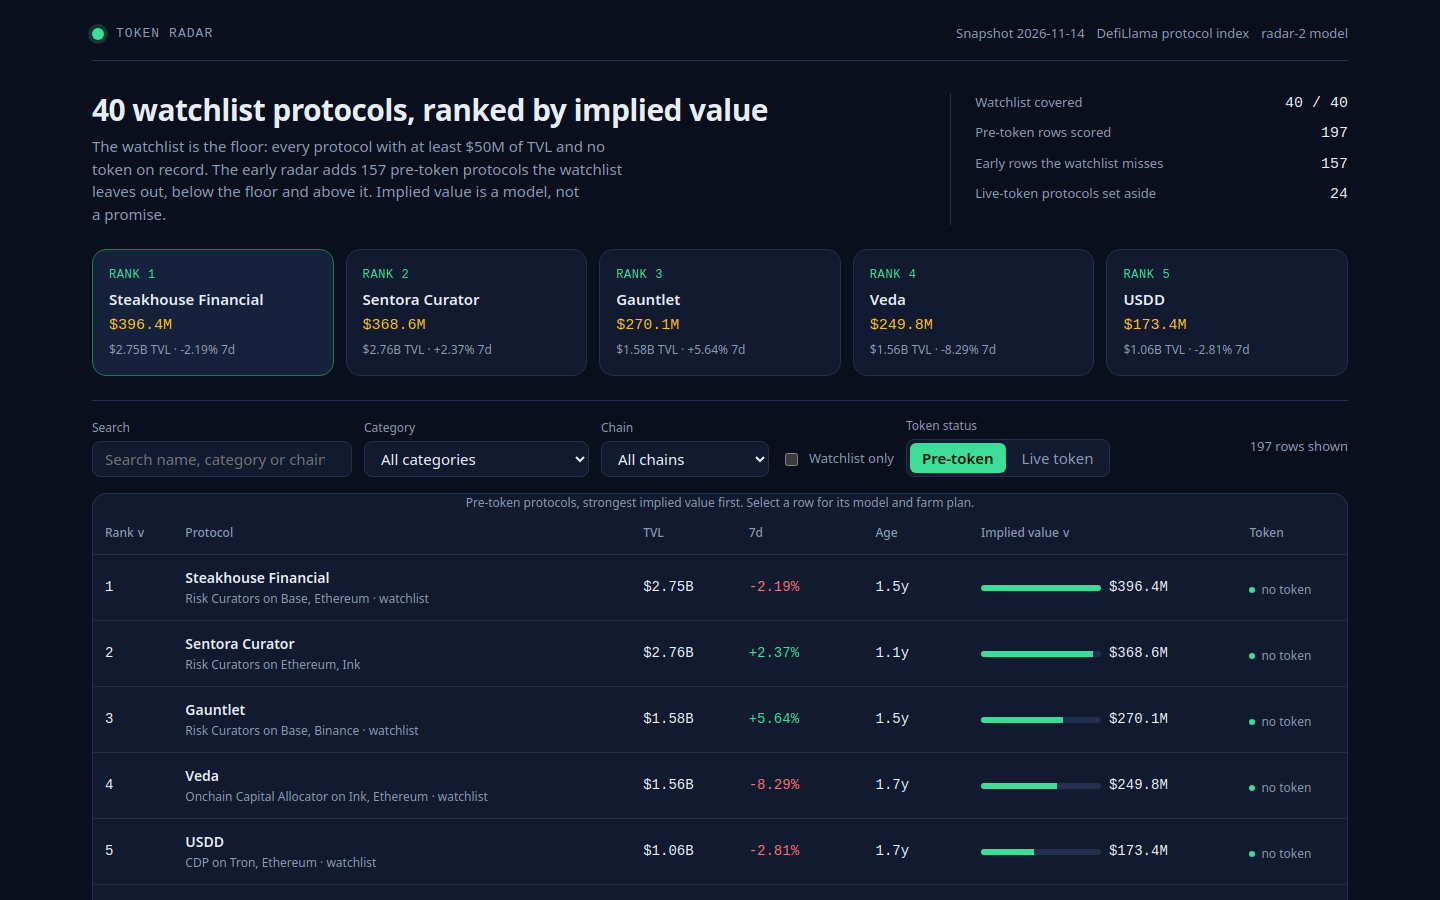
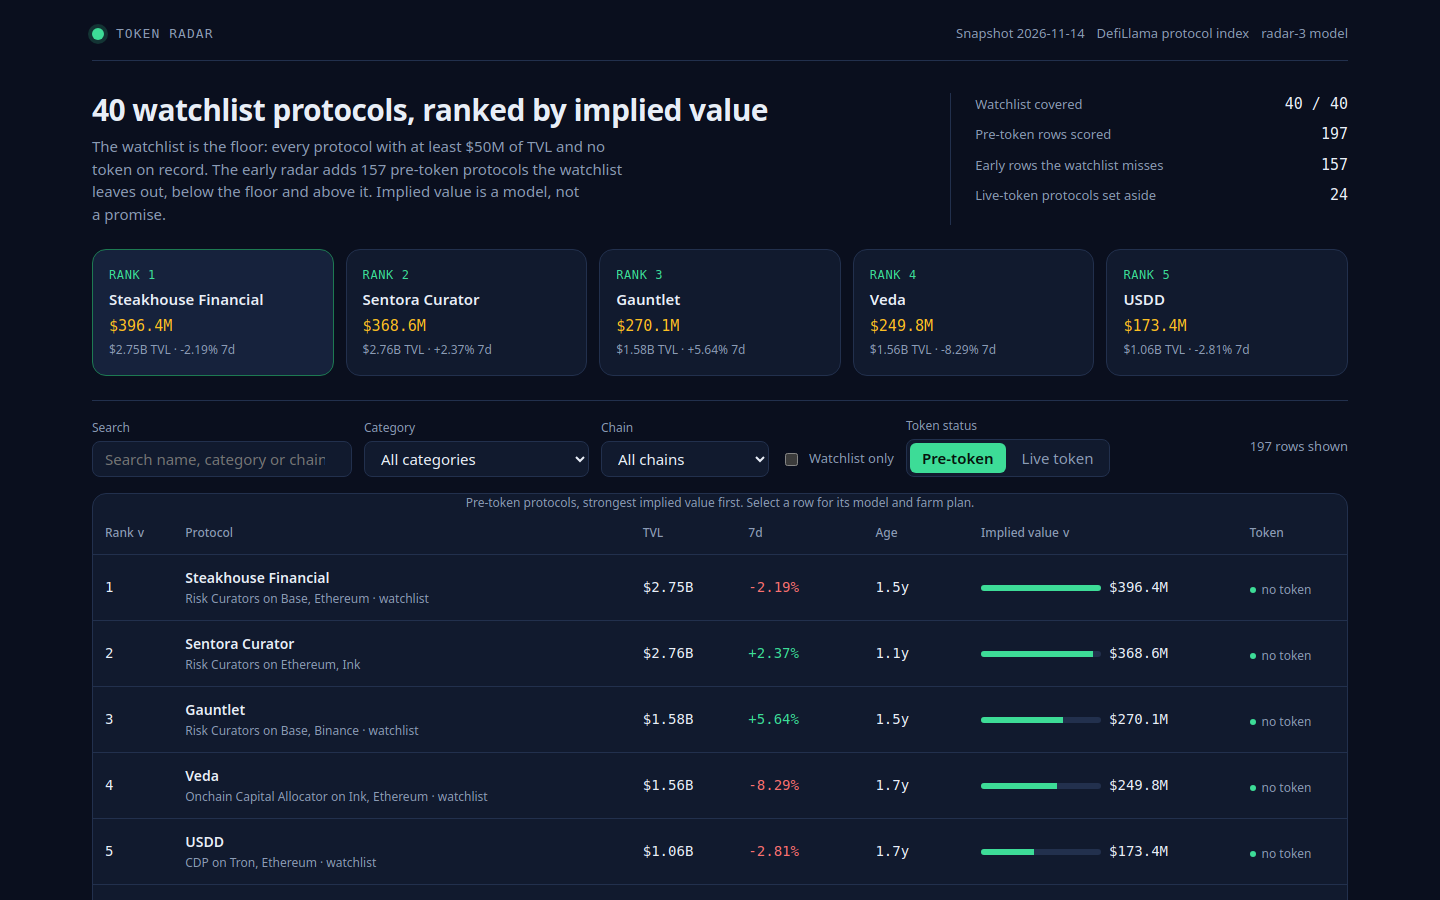
token-radar-01 v2: radar-3 model with sensitivity range + driver, exact-age detail, risk/skip farm plan, new screenshots

diff --git a/lib/model.ts b/lib/model.ts
@@ -1,4 +1,4 @@
-// Token Radar's value model (radar-2): one sealed snapshot in, one ranked board out.
+// Token Radar's value model (radar-3): one sealed snapshot in, one ranked board out.
 //
 // The board ranks every protocol on the snapshot's watchlist — the floor, never the ceiling —
 // and adds the early radar: pre-token protocols the watchlist leaves out, below the floor and
@@ -22,7 +22,18 @@
 //   reach        = 1 + min(chains - 1, 4) x 0.05        (1.0..1.2: more chains, broader surface)
 //   implied      = max(1, round(tvl_usd x 0.25 x size x growthMult x maturity x reach))
 //
-// No protocol name is ever special-cased: the same function scores every row.
+// radar-3 keeps that formula and its constants — a sensitivity test over the plausible weight
+// range moves the top 20 by at most a few places and never changes the top three, so the
+// baseline is the robust middle, not a cherry-picked one — and makes the model honest about
+// what it does not know. A seven-day growth the snapshot does not report is treated as 0%:
+// no bonus, no penalty, because unreported is not zero. An unknown age uses 365 days for
+// maturity, a conservative default below the board's median age of 421 days, and the dashboard
+// says so. Every row now carries its implied range, the lowest and highest value across
+// sensitivity runs that shift the growth weight, the unknown-age default and the size exponent,
+// and its main driver, the multiplier furthest from 1.0. Multipliers are stored to six
+// decimals, so a reader who multiplies the shown figures lands within a few hundred dollars
+// of the implied value. No protocol name is ever special-cased: the same function scores
+// every row.
 
 /** One protocol entry from the sealed snapshot: exactly its ten fields. */
 export interface SnapshotProtocol {
@@ -83,7 +94,7 @@ export const MODEL: ModelConstants = {
 };
 
 /** The model's version label: the dashboard names it. */
-export const MODEL_VERSION = 'radar-2';
+export const MODEL_VERSION = 'radar-3';
 
 /** How many live-token protocols the Live token view carries, by market cap. */
 export const LIVE_ROWS = 24;
@@ -111,6 +122,9 @@ export interface BoardRow {
   token_status: 'pre-token';
   age_days: number | null;
   implied_value_usd: number;
+  implied_range: { low: number; high: number };
+  driver: string;
+  driver_multiplier: number;
   model: {
     base_multiple: number;
     size_multiplier: number;
@@ -136,6 +150,10 @@ export interface RadarRow {
   listed_at: string | null;
   age_days: number | null;
   implied_value_usd: number;
+  implied_low: number;
+  implied_high: number;
+  driver: string;
+  driver_multiplier: number;
   size_multiplier: number;
   growth_multiplier: number;
   maturity_multiplier: number;
@@ -206,8 +224,8 @@ export function ageDays(asOf: string, listedAt: string | null): number | null {
   return Math.max(0, Math.floor((a - b) / DAY_MS));
 }
 
-/** Round to four decimals, so the model breakdown stays readable. */
-const round4 = (n: number): number => Math.round(n * 1e4) / 1e4;
+/** Round to six decimals, so a reader who multiplies the shown multipliers lands within a few hundred dollars of the implied value. */
+const round6 = (n: number): number => Math.round(n * 1e6) / 1e6;
 
 /**
  * The four multipliers and the implied value one protocol gets under `model`.
@@ -237,6 +255,51 @@ export function impliedValue(
   const reachMult = 1 + extraChains * model.reach_per_chain;
   const implied = Math.max(1, Math.round(protocol.tvl_usd * model.base_multiple * sizeMult * growthMult * maturityMult * reachMult));
   return { implied, sizeMult, growthPct, growthMult, maturityMult, reachMult, age };
+}
+
+/** The sensitivity runs: the baseline model, each key weight shifted once, and the two combined extremes. The board's point estimate always uses MODEL; these runs only set each row's low/high range, so the baseline implied value always lies inside its own range. */
+export const SENSITIVITY_RUNS: ModelConstants[] = [
+  MODEL,
+  { ...MODEL, growth_weight: 0.6 },
+  { ...MODEL, growth_weight: 1.0 },
+  { ...MODEL, unknown_age_days: 180 },
+  { ...MODEL, unknown_age_days: 730 },
+  { ...MODEL, size_exponent: -0.15 },
+  { ...MODEL, size_exponent: -0.25 },
+  { ...MODEL, growth_weight: 0.6, unknown_age_days: 180, size_exponent: -0.15 },
+  { ...MODEL, growth_weight: 1.0, unknown_age_days: 730, size_exponent: -0.25 },
+];
+
+/** A row's implied value across the sensitivity runs: the lowest and the highest. */
+export function sensitivityRange(protocol: SnapshotProtocol, asOf: string): { low: number; high: number } {
+  let low = Number.POSITIVE_INFINITY;
+  let high = 0;
+  for (const run of SENSITIVITY_RUNS) {
+    const value = impliedValue(protocol, asOf, run).implied;
+    if (value < low) low = value;
+    if (value > high) high = value;
+  }
+  return { low, high };
+}
+
+/** Which multiplier moves a row's implied value most: the one furthest from 1, boost or compression alike. */
+export function driverFor(sizeMult: number, growthMult: number, maturityMult: number, reachMult: number): { driver: string; multiplier: number } {
+  const candidates: Array<[string, number]> = [
+    ['size', sizeMult],
+    ['growth', growthMult],
+    ['maturity', maturityMult],
+    ['reach', reachMult],
+  ];
+  let best: [string, number] = candidates[0]!;
+  let bestDistance = 0;
+  for (const [name, mult] of candidates) {
+    const distance = Math.abs(Math.log(mult));
+    if (distance > bestDistance) {
+      bestDistance = distance;
+      best = [name, mult];
+    }
+  }
+  return { driver: best[0], multiplier: best[1] };
 }
 
 /** DefiLlama's version-marker rule: a name ending in a release is a pool of another protocol. */
@@ -297,32 +360,39 @@ export function buildBoard(snapshot: Snapshot, model: ModelConstants = MODEL): B
     return { p, implied, sizeMult, growthPct, growthMult, maturityMult, reachMult, age };
   });
   scored.sort((a, b) => b.implied - a.implied || (a.p.slug < b.p.slug ? -1 : a.p.slug > b.p.slug ? 1 : 0));
-  return scored.map((s, i) => ({
-    rank: i + 1,
-    slug: s.p.slug,
-    name: s.p.name,
-    category: s.p.category,
-    chains: s.p.chains,
-    tvl_usd: s.p.tvl_usd,
-    change_7d: s.p.change_7d,
-    mcap_usd: s.p.mcap_usd,
-    listed_at: s.p.listed_at,
-    gecko_id: s.p.gecko_id,
-    symbol: s.p.symbol,
-    token_status: 'pre-token',
-    age_days: s.age,
-    implied_value_usd: s.implied,
-    model: {
-      base_multiple: model.base_multiple,
-      size_multiplier: round4(s.sizeMult),
-      growth_pct: s.growthPct,
-      growth_multiplier: round4(s.growthMult),
-      maturity_multiplier: round4(s.maturityMult),
-      reach_multiplier: round4(s.reachMult),
+  return scored.map((s, i) => {
+    const range = sensitivityRange(s.p, snapshot.as_of);
+    const driven = driverFor(s.sizeMult, s.growthMult, s.maturityMult, s.reachMult);
+    return {
+      rank: i + 1,
+      slug: s.p.slug,
+      name: s.p.name,
+      category: s.p.category,
+      chains: s.p.chains,
+      tvl_usd: s.p.tvl_usd,
+      change_7d: s.p.change_7d,
+      mcap_usd: s.p.mcap_usd,
+      listed_at: s.p.listed_at,
+      gecko_id: s.p.gecko_id,
+      symbol: s.p.symbol,
+      token_status: 'pre-token',
       age_days: s.age,
-    },
-    farm_steps: farmSteps(s.p, s.age).map(stepText),
-  }));
+      implied_value_usd: s.implied,
+      implied_range: range,
+      driver: driven.driver,
+      driver_multiplier: round6(driven.multiplier),
+      model: {
+        base_multiple: model.base_multiple,
+        size_multiplier: round6(s.sizeMult),
+        growth_pct: s.growthPct,
+        growth_multiplier: round6(s.growthMult),
+        maturity_multiplier: round6(s.maturityMult),
+        reach_multiplier: round6(s.reachMult),
+        age_days: s.age,
+      },
+      farm_steps: farmSteps(s.p, s.age).map(stepText),
+    };
+  });
 }
 
 /** One step as a single string: its action, then its cost and time, within 20..600 characters. */
@@ -433,8 +503,34 @@ function secondActionFor(p: SnapshotProtocol, capital: number, chain: string): s
 }
 
 /**
+ * The category's main risk, in words a farmer can weigh before moving money. The table is
+ * tried in the same order as the action table: the first key that matches decides the risk.
+ * A category no key matches gets the plain contract risk.
+ */
+const RISK_TABLE: Array<{ keys: string[]; risk: string }> = [
+  { keys: ['lend', 'cdp', 'collateral'], risk: 'a falling collateral price can liquidate the position' },
+  { keys: ['dex', 'yield', 'leveraged farm', 'farm'], risk: 'liquidity positions can lose value to impermanent loss' },
+  { keys: ['bridge'], risk: 'a bridge exploit or delay can strand the funds' },
+  { keys: ['staking', 'restak'], risk: 'staked funds can be locked or slashed' },
+  { keys: ['perpetual', 'derivative', 'options'], risk: 'leverage can liquidate the margin' },
+  { keys: ['prediction'], risk: 'a market can resolve against the position' },
+  { keys: ['stable'], risk: 'a stable asset can depeg' },
+  { keys: ['rwa'], risk: 'the off-chain asset can default' },
+];
+
+/** The category's main risk, in words a farmer can weigh. */
+function riskFor(p: SnapshotProtocol): string {
+  const c = (p.category ?? '').toLowerCase();
+  for (const entry of RISK_TABLE) {
+    if (entry.keys.some((k) => c.includes(k))) return entry.risk;
+  }
+  return 'the contract could be exploited';
+}
+
+/**
  * A protocol's farm plan: seven steps, each an action with a cost and a time. The plan is derived
  * from the protocol's own record (category, chains, TVL, age), never from a hand-written list of names.
+ * The last step states the plan's risk and when to skip it outright.
  */
 export function farmSteps(p: SnapshotProtocol, age: number | null): FarmStep[] {
   const chain = chainOf(p);
@@ -477,7 +573,7 @@ export function farmSteps(p: SnapshotProtocol, age: number | null): FarmStep[] {
       time: `${hold} days`,
     },
     {
-      text: `Before you withdraw, claim only from the link the protocol itself publishes, never from a direct message, and write the wallet, the dates and every transaction hash in a farm log.`,
+      text: `Know the risks: ${riskFor(p)}. An airdrop is never guaranteed. Skip this protocol if the gas and fees cost more than the value you expect, or if its TVL is held by a few wallets. Before you withdraw, claim only from the link the protocol itself publishes, never from a direct message, and write the wallet, the dates and every transaction hash in a farm log.`,
       cost: 'no fee to check, and never pay to claim',
       time: '10 minutes',
     },
@@ -515,6 +611,10 @@ export function radarRow(row: BoardRow, watchlist: boolean): RadarRow {
     listed_at: row.listed_at,
     age_days: row.age_days,
     implied_value_usd: row.implied_value_usd,
+    implied_low: row.implied_range.low,
+    implied_high: row.implied_range.high,
+    driver: row.driver,
+    driver_multiplier: row.driver_multiplier,
     size_multiplier: row.model.size_multiplier,
     growth_multiplier: row.model.growth_multiplier,
     maturity_multiplier: row.model.maturity_multiplier,

diff --git a/dashboard/app.js b/dashboard/app.js
@@ -1,4 +1,4 @@
-// Token Radar dashboard, second draft.
+// Token Radar dashboard, third draft (radar-3).
 //
 // The page renders window.RADAR (emitted beside dashboard/ by main.ts): the ranked
 // pre-token board, a Top-5 spotlight, a searchable, filterable and sortable table,
@@ -9,7 +9,9 @@
 // The farm plan and the implied value are recomputed here from the same snapshot
 // figures main.ts scores into board.json — TVL, seven-day growth, age, chains and
 // category — so the page and the board agree by construction. No protocol name is
-// ever special-cased.
+// ever special-cased. Each row also carries its implied range across the model's
+// sensitivity runs and the multiplier that drives it most, and each farm plan ends
+// with the protocol's main risk and when to skip it outright.
 (function () {
   'use strict';
 
@@ -63,6 +65,16 @@
   function formatAge(days) {
     if (days === null || days === undefined) return 'unknown';
     if (days >= 365) return (days / 365).toFixed(1) + 'y';
+    return Math.max(0, Math.round(days)) + 'd';
+  }
+
+  // The detail view's age: the exact day count, so the maturity multiplier can be
+  // checked by hand, with the table's rounded years in brackets. The table rounds
+  // years to one decimal, so several ages share one display string; the exact days
+  // here are the value the model used.
+  function formatAgeExact(days) {
+    if (days === null || days === undefined) return 'unknown';
+    if (days >= 365) return Math.max(0, Math.round(days)) + 'd (' + (days / 365).toFixed(1) + 'y)';
     return Math.max(0, Math.round(days)) + 'd';
   }
 
@@ -232,6 +244,32 @@
     return 'Do one more action on ' + p.name + ' for $' + small + ' — a swap, a vote or a second deposit — so the wallet shows repeat use.';
   }
 
+  // The category's main risk, in the same order as the action rules: the first
+  // key that matches decides the risk. A category no key matches gets the plain
+  // contract risk. This mirrors lib/model.ts exactly, so the page's plan and
+  // board.json's plan are the same strings.
+  var RISK_RULES = [
+    { keys: ['lend', 'cdp', 'collateral'], risk: 'a falling collateral price can liquidate the position' },
+    { keys: ['dex', 'yield', 'leveraged farm', 'farm'], risk: 'liquidity positions can lose value to impermanent loss' },
+    { keys: ['bridge'], risk: 'a bridge exploit or delay can strand the funds' },
+    { keys: ['staking', 'restak'], risk: 'staked funds can be locked or slashed' },
+    { keys: ['perpetual', 'derivative', 'options'], risk: 'leverage can liquidate the margin' },
+    { keys: ['prediction'], risk: 'a market can resolve against the position' },
+    { keys: ['stable'], risk: 'a stable asset can depeg' },
+    { keys: ['rwa'], risk: 'the off-chain asset can default' }
+  ];
+
+  function riskFor(p) {
+    var c = (p.category || '').toLowerCase();
+    for (var i = 0; i < RISK_RULES.length; i++) {
+      var keys = RISK_RULES[i].keys;
+      for (var j = 0; j < keys.length; j++) {
+        if (c.indexOf(keys[j]) >= 0) return RISK_RULES[i].risk;
+      }
+    }
+    return 'the contract could be exploited';
+  }
+
   function renderStep(step) {
     var s = step.text + ' Cost: ' + step.cost + '. Time: ' + step.time + '.';
     if (s.length > 600) s = s.slice(0, 596) + '...';
@@ -278,7 +316,7 @@
         time: hold + ' days'
       },
       {
-        text: 'Before you withdraw, claim only from the link the protocol itself publishes, never from a direct message, and write the wallet, the dates and every transaction hash in a farm log.',
+        text: 'Know the risks: ' + riskFor(p) + '. An airdrop is never guaranteed. Skip this protocol if the gas and fees cost more than the value you expect, or if its TVL is held by a few wallets. Before you withdraw, claim only from the link the protocol itself publishes, never from a direct message, and write the wallet, the dates and every transaction hash in a farm log.',
         cost: 'no fee to check, and never pay to claim',
         time: '10 minutes'
       }
@@ -627,7 +665,7 @@
       'growth = 1 + clamp(change_7d, ' + m.growth_floor + ', ' + m.growth_cap + ') / 100 x ' + m.growth_weight + '  ·  ' +
       'maturity = ' + m.maturity_floor + ' + min(age_days, ' + m.maturity_days + ') / ' + m.maturity_days + ' x ' + m.maturity_range + '  ·  ' +
       'reach = 1 + min(chains - 1, ' + m.reach_max_chains + ') x ' + m.reach_per_chain;
-    var explainer = 'Size has diminishing returns, so a small fast grower can outrank a large flat one. TVL and seven-day growth come from the snapshot. Age is the time since the protocol was first listed, the best record of how long it has run with no token; an unlisted age uses ' + m.unknown_age_days + ' days. Reach counts the chains a protocol runs on. The early radar is every pre-token protocol the watchlist leaves out that passes the same honesty test as the watchlist — no wrapped, staked or bridged product of a token that already trades — and the live-token protocols are set aside with their market caps shown.';
+    var explainer = 'Size has diminishing returns, so a small fast grower can outrank a large flat one. TVL and seven-day growth come from the snapshot. A protocol whose seven-day growth is not reported is treated as 0%: no bonus, no penalty, because unreported is not zero. Age is the time since the protocol was first listed, the best record of how long it has run with no token; an unknown age uses ' + m.unknown_age_days + ' days for maturity, a conservative default below the board\u2019s median age of 421 days. Age is shown rounded to one decimal in years in the table; the detail view gives the exact day count. Multipliers are shown rounded to six decimals, and the page recomputes each row from full precision. The implied range is the lowest and highest value across sensitivity runs that shift the growth weight (0.6 to 1.0), the unknown-age default (180 to 730 days) and the size exponent (-0.15 to -0.25); the top three never change across those runs. The main driver is the multiplier furthest from 1.0. Reach counts the chains a protocol runs on. The early radar is every pre-token protocol the watchlist leaves out that passes the same honesty test as the watchlist — no wrapped, staked or bridged product of a token that already trades — and the live-token protocols are set aside with their market caps shown.';
     return h('section', { class: 'panel model' },
       h('h2', { text: 'How implied value is computed' }),
       h('p', { class: 'sub', text: 'Every row is scored by one function of the snapshot figures. No protocol name is special-cased, and no row is hand-picked.' }),
@@ -676,18 +714,34 @@
     });
     detailDialog.appendChild(h('div', { class: 'detail-head' }, headCopy, closeButton));
 
+    var ageText = (row.age_days === null || row.age_days === undefined)
+      ? 'unknown (365d assumed for maturity)'
+      : formatAgeExact(row.age_days);
+    var growthText = (row.change_7d === null || row.change_7d === undefined)
+      ? 'n/a (treated as 0%)'
+      : formatPct(row.change_7d);
+    var rangeText = formatMoney(row.implied_low) + ' – ' + formatMoney(row.implied_high);
+    var driverText = row.driver + ' ×' + row.driver_multiplier;
     var equation = h('div', { class: 'equation' },
       h('div', null, h('span', { text: 'TVL' }), h('b', { class: 'num', text: formatMoney(row.tvl_usd) })),
-      h('div', null, h('span', { text: 'Seven-day growth' }), h('b', { class: 'num', text: formatPct(row.change_7d) })),
-      h('div', null, h('span', { text: 'Age with no token' }), h('b', { class: 'num', text: formatAge(row.age_days) })),
+      h('div', null, h('span', { text: 'Seven-day growth' }), h('b', { class: 'num', text: growthText })),
+      h('div', null, h('span', { text: 'Age with no token' }), h('b', { class: 'num', text: ageText })),
       h('div', null, h('span', { text: 'Chains' }), h('b', { class: 'num', text: String((row.chains || []).length) })),
       h('div', null, h('span', { text: 'Size multiplier' }), h('b', { class: 'num', text: String(row.size_multiplier) })),
       h('div', null, h('span', { text: 'Growth multiplier' }), h('b', { class: 'num', text: String(row.growth_multiplier) })),
       h('div', null, h('span', { text: 'Maturity multiplier' }), h('b', { class: 'num', text: String(row.maturity_multiplier) })),
       h('div', null, h('span', { text: 'Reach multiplier' }), h('b', { class: 'num', text: String(row.reach_multiplier) })),
-      h('div', null, h('span', { text: 'Implied value' }), h('b', { class: 'num', text: formatMoney(row.implied_value_usd) }))
+      h('div', null, h('span', { text: 'Implied value' }), h('b', { class: 'num', text: formatMoney(row.implied_value_usd) })),
+      h('div', null, h('span', { text: 'Implied range' }), h('b', { class: 'num', text: rangeText })),
+      h('div', null, h('span', { text: 'Main driver' }), h('b', { class: 'num', text: driverText }))
     );
-    var checkText = 'Model ' + BOARD.model_version + ': the same function scores every protocol. The page recomputes this row as ' + formatMoney(recomputed) + (recomputed === row.implied_value_usd ? ', the same number board.json carries.' : ', which differs from the board: the data would be stale.') + ' This is an estimate, not a price.';
+    var checkText = 'Model ' + BOARD.model_version + ': the same function scores every protocol. The page recomputes this row as ' + formatMoney(recomputed) + (recomputed === row.implied_value_usd ? ', the same number board.json carries.' : ', which differs from the board: the data would be stale.') + ' The implied range is the lowest and highest value across sensitivity runs that shift the growth weight, the unknown-age default and the size exponent, and the main driver is the multiplier furthest from 1.0. This is an estimate, not a price.';
+    if (row.change_7d === null || row.change_7d === undefined) {
+      checkText += ' Seven-day growth was not reported, so the model gives no growth bonus or penalty (treated as 0%).';
+    }
+    if (row.age_days === null || row.age_days === undefined) {
+      checkText += ' Age is unknown, so maturity uses the 365-day default.';
+    }
     detailDialog.appendChild(h('section', { class: 'detail-section' },
       h('h3', { text: 'Implied value' }),
       equation,
